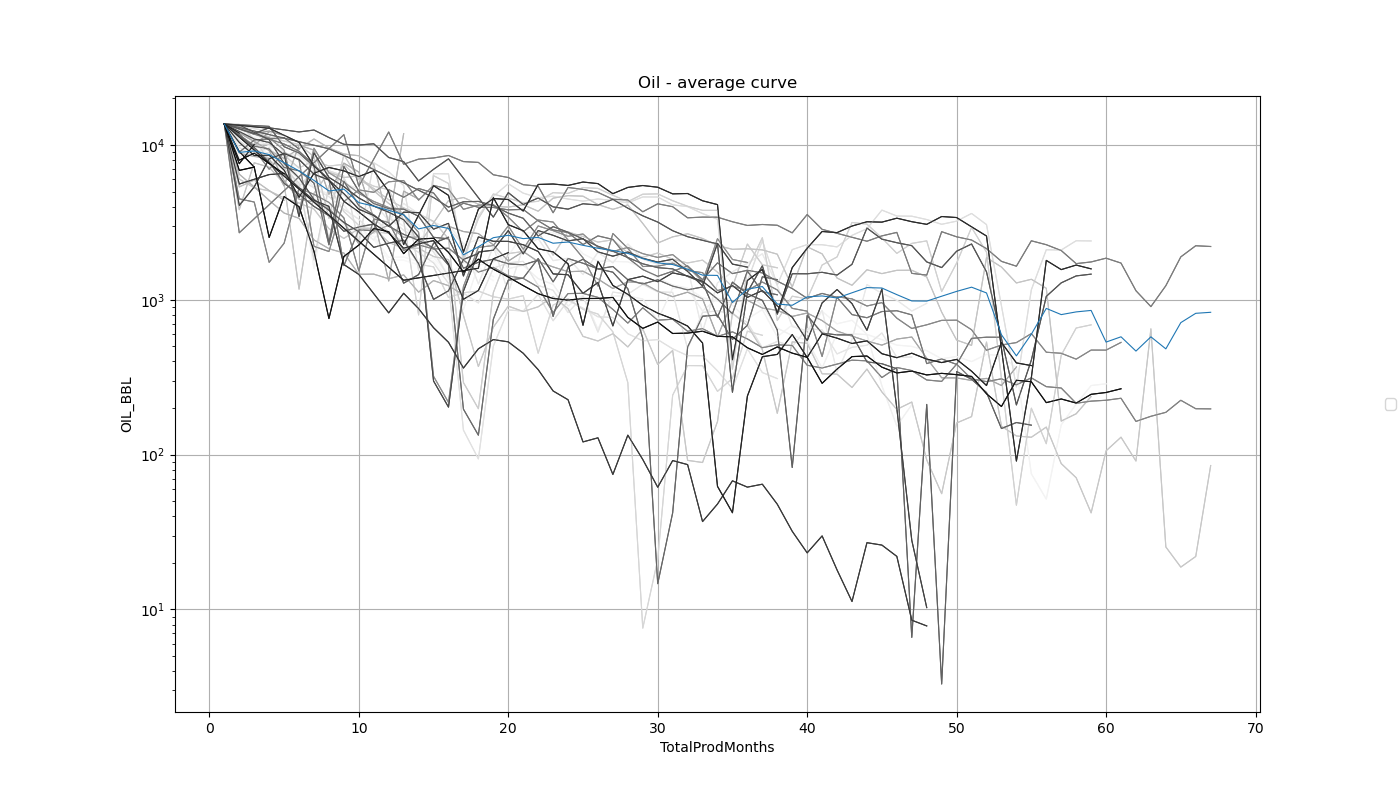
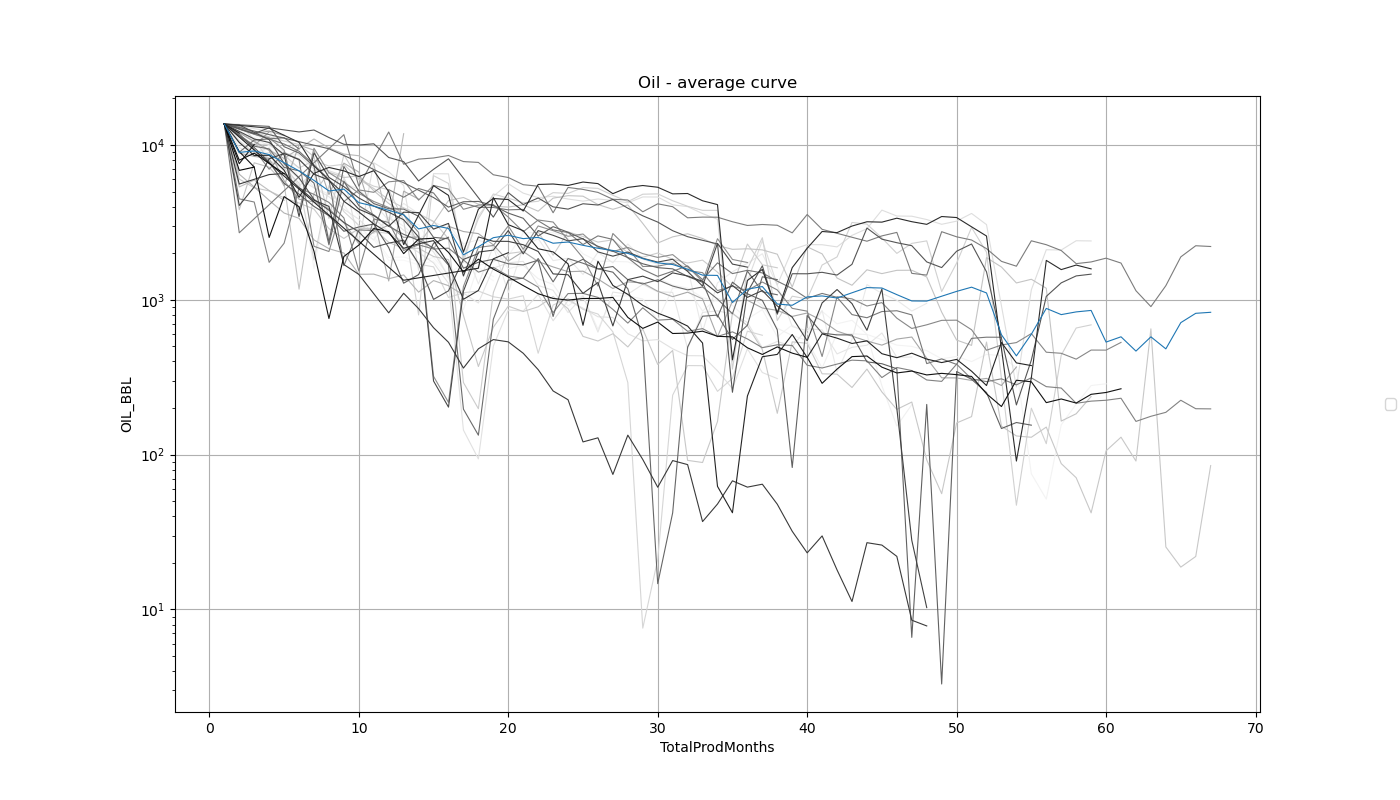
update

diff --git a/src/05-lss.py b/src/05-lss.py
@@ -14,8 +14,6 @@ def plot_oil_average_curve(data, x, y):
     
     sns.lineplot(data=data1, x=x, y=y, hue="WellName", palette='Greys', 
     estimator=None, n_boot=1000, lw=0.8, orient='x', sort=True, legend=None, ci='deprecated', ax=None)
-    sns.lineplot(data=data1, x=x, y=y, hue="WellName", palette='Greys', 
-    estimator=None, n_boot=1000, lw=0.8, orient='x', sort=True, legend=None, ci='deprecated', ax=None)
     sns.lineplot(data=data2, x=x, y=y, hue=None, palette='Greys', color='C0', 
     estimator=None, n_boot=1000, lw=0.8, orient='x', sort=True, legend=None, ci='deprecated', ax=None)
     
